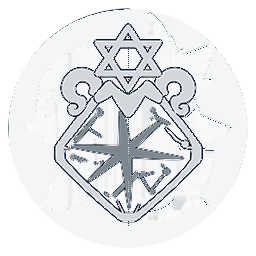
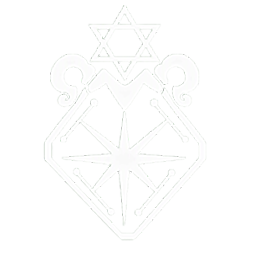
feat: 命座/详情技能图标素材更新 + 图案染色取消记录
- constellation.png 换源为用户 AI 生成版命座图标：中心闪光提亮修正、1024 降回 256，同日径向提亮翻车版废弃（guid 不变内容替换）
- detail.png 通用详情图标按亮度→alpha 管线重制：newA=oldA×L/255、RGB 恒白（与官方转白同款），深色细节透出底板色；guid 不变
- SKillIconView 注释记录：「图案染提亮元素色」方案 2026-09-10 晚试过被用户目检后取消，维持图案恒白+底板染元素色，勿再主动提案
- CODELY.md 当日记忆沉淀：官方素材拍板、识图 AI 降级、提亮禁动 alpha、技能图标体系与详情图标条目等

diff --git a/Assets/_Scripts/UI/Skill/SKillIconView.cs b/Assets/_Scripts/UI/Skill/SKillIconView.cs
@@ -40,7 +40,8 @@ namespace GIC.UI
             this.unitData = unitData;
             this.skillDetailView = skillDetailView;
 
-            // 元素染色（2026-09-10 拍板：图案保持白色不染，底图染亮元素色；色值=配置文件）
+            // 元素染色（2026-09-10 拍板：图案保持白色不染，底图染亮元素色；色值=配置文件。
+            // 2026-09-10 晚曾试"图案染提亮元素色"，用户目检后取消——勿再主动提案）
             // 底图为白基底圆板，乘色后即完整元素亮色；无 unitData 回退物理灰防白底白图
             Color elementColor = unitData != null
                 ? ElementFactionConfig.Instance.GetElementColor(unitData.selfElement)

diff --git a/CODELY.md b/CODELY.md
@@ -55,13 +55,15 @@
 - [2026-09-03 23:34:10] 【frontier 高成本确认门假报错】generate_image 用 provider=frontier/seedream_pro 等高成本模型**不带 confirm_cost=true 直接调用，返回 "[Error: Could not parse tool response]"**（2026-09-03 三次实证，同参加 confirm_cost=true 立即成功）——是高成本确认门响应解析失败的假象，不是网络/参数问题。**How to apply:** 用户已明确要求最强模型/同意成本时直接带 confirm_cost=true；再遇此报错先想成本确认门，勿无脑重试同参。
 - [2026-09-03 23:34:10] 【TJGenerators 轮询命令 Windows 必炸坑】generate_* 工具返回的 poll_command_powershell 内 `function Try` 与 PowerShell 保留字 try 冲突，原样执行必解析失败（2026-09-03 实证，改名 TryPoll 即正常）。**How to apply:** 把轮询命令下发给子代理执行前，将 Try 函数改名（如 TryPoll），逻辑照抄。
 - [2026-09-05 00:52:46] 【Prefab 实例引用编辑不持久化陷阱】（2026-09-05 背包页签迁移两次实证）：对场景中 prefab 实例的组件做 C# 赋值（sprite/color/GO 改名）+ SaveScene，部分修改未持久化（新增对象与字段覆写 selectDisc 持久化了，但 m_Sprite/m_Color/m_Name 赋值全部丢失）——疑与 Additive 加载后 prefab 资产先被 SaveAsPrefabAsset 重建的同步时序有关。**How to apply:** ①实例级修引用优先"内容替换法"：不动 override，直接换被引用文件的内容（guid/meta 不变，零风险）；②必须动实例 override 时走 YAML 手术：备份→删块→删 PI 修改项→校验（scene-local 无 guid 的 fileID 引用必须可解析到块；跨文件 fileID: 21300000/11500000/100100000 等子资产引用是合法的，勿计为悬空）→留 flag 自愈让 Unity 序列化器最终验证；③校验 dangling 时区分场景内引用与跨文件子资产引用，否则 700+ 误报。
-- [2026-09-05 22:02:54] Windows PowerShell 5.1 不支持 && / || 链式操作符（PS7 才有）——run_shell_command 组合命令用 `;` 分隔或拆开调用，报 "At line:1 char:17" 解析错即此坑（2026-09-05 实证 `git diff --stat && git diff` 失败）。**Why:** 与已记全局的 PS5.1 编码陷阱同源（本机 shell 为 PS5.1）。**How to apply:** 本机 shell 组合命令一律避免 &&/||；此条为项目域记录，若需跨项目生效可迁入全局 PS5.1 陷阱条目（迁全局需用户确认）。
+
 - [2026-09-05 22:26:03] 【"看似冗余"的执行路径可能是隐式行为的载体，删除前必查副作用】（2026-09-05 用户报障实证）：LoadSaveData 首建档分支"少 return、建档后又把刚写的档读一遍"被我判为"无害但浪费的 bug"顺手修掉——实际它承载了"建档后 fall-through 顺带 SyncMissingCards 补全未拥有卡"的功能；删掉后 v11 重置当次会话背包缺未拥有角色卡（count=0 条目全无），用户立即发现。**Why:** 旧代码的怪写法常是历史行为的载体，"重构清理"前必须先问"它为什么这么写"；行为保持型重构 ≠ 顺手修 bug。**How to apply:** ①判定既有代码"冗余/bug"并打算顺手移除时，先证明它不承载功能（调用面/数据流推演），证不了就保留原样或单独提问；②改存档建档/重置路径必须过 gic-save-system skill 的"建档即补全"铁律；③回归修复已入 CreateNewSave（SyncMissingCards+SortAllCategories）。
-- [2026-09-07 21:39:41] [feedback] 【PS5.1 中文弯引号也是字符串定界符】（2026-09-07 提交批两次实证）：PowerShell 解析器把 U+201C/U+201D（“ ”）当双引号定界符——含弯引号的中文文案放进 PS 双引号字符串必炸解析器（Unexpected token），\" 转义同样无效。**Why:** 与已记的 && / || 陷阱同源（PS tokenizer 特性）；git-commit-helper 的 -F 落盘铁律只防了 -m 直接传参，用 PS 字符串数组拼消息体再 WriteAllText 仍会踩。**How to apply:** 含引号/特殊符号的中文长文案一律 write_file 工具落盘（无 BOM UTF-8）再供 shell/git 消费，不经 PS 字符串字面量；文案内确需引号用「」；本条与 PS && / || 条目同属本机 PS5.1 陷阱族，跨项目生效可迁全局（迁入需用户确认）。
-- [2026-09-08 21:47:18] [feedback] 【exit_plan_mode 指定 plans 目录陷阱】（2026-09-08 五次实证）：exit_plan_mode 的 plan_file_path 只接受**会话级临时目录**（形如 C:\Users\86139\.codely-cli\tmp\<session-hash>\plans\<uuid>.md），传项目内自建路径（.codely-cli\plans、项目根 plans、.codely\plans、用户级 plans）一律报 "Access denied: plan path must be within the designated plans directory"；不带路径则报 "No active plan file is set for this session"——该 hash 目录事前无法预知，自建目录不生效。**Why:** plan 文件由会话基础设施管理，退出计划模式的批准动作最终由用户在 CLI 侧触发（本会话用户批准后系统消息回传了真实计划路径）。**How to apply:** 计划正文用 write_file 落到项目规范位置（如 .codely-cli/plans/）作长期档案即可，exit_plan_mode 直接调用不纠结报错；批准与否以用户回复/系统 Exited Plan Mode 消息为准；勿再逐个目录试错。此条属 Codely CLI 工具链陷阱，跨项目有效，迁全局需用户确认。
+
+
 - [2026-09-08 22:00:21] [feedback] 【技能描述只写特有内容，通用规则不重复】（2026-09-08 行秋契约简化批拍板）：技能描述里不重复系统级通用规则（契约流程/档位选择/谈判投票这类已在势力机制文档定义的），只写该技能特有的效果与数值；档位变化的数值写紧凑格式"10/15/20"（按平衡/小利/大利顺序），不写"（平衡10 / 小利15 / 大利20）"逐档标注。**Why:** 用户纠正我上一轮把契约流程与档位映射全塞进了雨深闭门描述——重复啰嗦。**How to apply:** 写任何势力机制技能（契约/延奏/变奏/连携）描述时先查 docs/07 对应势力文档，已定义的通用规则一律省略；规范已固化在 docs/07-势力机制/璃月.md"描述规范"条目。
-- [2026-09-09 21:18:33] [feedback] 【技能/角色图标素材一律取官方，AI 生成被否决】（2026-09-09 用户拍板原话"先不要自己生成技能图标，从网上比如米游社等找官方的，我现在有的技能图标都是取自官方的"）。**Why:** 项目现有图标全部取自官方素材，AI 生成风格即使模仿到位也会被否；本会话 24 张 frontier 生成图全废（未入库零污染，仅耗积分）。**How to apply:** 任何技能/角色图标需求先走官方抓取（实战可行链=Fandom api.php：parse&page=角色名&prop=images 拿官方图标文件名清单→titles=File:X&prop=imageinfo&iiprop=url 拿直链→curl 走 Clash 代理 7890 下载加 **&format=png** 参数——CDN 默认返回 webp，format=png 才是真 PNG）；AI 生成仅限官方无对应的项目自创技能且需用户点头。web_fetch 直接抓 fandom 页面必被反爬中止，api.php 不拦。
+- [2026-09-10 18:42:12] [feedback] 【技能/角色图标素材一律取官方，AI 生成被否决】（2026-09-09 用户拍板原话"先不要自己生成技能图标，从网上比如米游社等找官方的，我现在有的技能图标都是取自官方的"）。**Why:** 项目现有图标全部取自官方素材，AI 生成风格即使模仿到位也会被否；AI 批量生成曾 24 张全废（未入库零污染，仅耗积分）。**How to apply:** 任何技能/角色图标需求先走官方素材——2026-09-10 起一律本地游戏提取（gic-gi-extract skill，可逐张核对游戏内原画；Fandom 网络抓取链已弃用）；AI 生成仅限官方无对应的项目自创技能且需用户点头。
+
 - [2026-09-10 17:06:15] 【识图 AI 不可作为内容判定依据】（2026-09-10 用户拍板原话"不要相信识图的ai，经常不准确。我验证通过"）：多模态识图的形状/语义读数仅可作粗检参考，不得作为"图案是什么/箭头是否残留/内容对不对"类结论的证据；内容判定以像素级测量（连通域/diff/ASCII 渲染脚本）与用户目检为准，拿不准时列清单请用户回答。**Why:** fly 图标落地轮识图读数与像素测量+用户目检结论不一致，用户明确降级识图 AI 可信度。**How to apply:** 图标/贴图/素材内容核对一律先跑像素脚本、再交用户目检；识图结果与像素数据冲突时信像素，最终以用户目检为准。
+- [2026-09-10 19:25:39] 【图标提亮禁动 alpha 覆盖范围】（2026-09-10 命座图标提亮翻车实证，用户原话"回退，你不应该额外加像素，现在中间看起来糊成一坨"）：对线稿类图标做提亮/增亮时**只可提升既有实体像素的 RGB 亮度（且仅对 alpha 足够高的实体区），禁止把低 alpha/零 alpha 像素抬起来**——alpha 半提升会把抗锯齿边缘、极淡纹理、噪点一起实体化，视觉=糊成一坨。**Why:** 命座图标中心闪光原是低 alpha 的柔光区（ring 0-20 meanA 仅 122），我按 alpha+RGB 同推 0.9 权重提亮，把大量本近乎不可见的细节像素变实心，用户立即报糊。**How to apply:** ①提亮类操作先按 alpha 分层：alpha≥128 的实体区提 RGB；低 alpha 区不动或只微调；②"太暗"的图标若暗因=alpha 低，说明它本来就是柔光/半透明设计，改前先出对比图问用户要哪种方向；③改完先小样目检再全量落盘。
 
 ### Project
 - [2026-08-16 19:13:23] GIC"协议核心"：同时回合制卡牌战术战棋（原神IP，最多6人，LAN联机 via Mirror）。核心循环：祈愿解锁→局前选8卡→同时选1行动→攻速排序执行→摧毁核心掠夺→原石结算。7势力可混搭，命座0-3重复出战升命。**定位**：单人开发的个人 Demo/作品集，非商业上线；目标全平台互通（PC+移动+主机）。**Why:** solo dev 资源有限，scope 必须从 GDD 雄心大幅裁剪。**How to apply:** 实现战斗/势力/经济系统时参考 docs/；优先 2人1v1 而非 6 人、2-3 势力而非 7、垂直切片优先于铺量。
@@ -147,13 +149,15 @@
 
 
 
-- [2026-09-09 23:05:13] [project] 派蒙架构审查治理（2026-08-31）：报告+执行状态表在 .codely-cli/HANDOFF-派蒙审查.md；批 1-7 摘要见 docs/19 决策表 2026-08-31 行。方案B 工具家族拍板保留不删。剩余待拍板：游戏内阴影门控；大文件 partial 拆分未做（收益低）。DevKey 吊销议题已关闭（2026-09-07 定论：key 从未泄出无需吊销，见 DevKey 条目）。
+- [2026-09-10 18:41:39] [project] 派蒙架构审查治理（2026-08-31）：报告+执行状态表在 .codely-cli/HANDOFF-派蒙审查.md；批 1-7 摘要见 docs/19 决策表 2026-08-31 行。方案B 工具家族拍板保留不删。剩余待拍板：游戏内阴影门控；大文件 partial 拆分未做（收益低）。
+
 
 
 - [2026-09-01 21:04:05] [project] 米哈游级代码质量审查体系已建（2026-09-01 拍板"米哈游级代码质量+优秀架构设计"）：gic-code-review skill（.codely-cli/skills/gic-code-review/SKILL.md，七维 checklist：A架构依赖最高优先→序列化→UI本地化→数据存档→通用质量→文件位置→docs/14雷区对照）+ docs/20 §1.7 新文件位置决策表（编辑器/运行时→归属层判定+文件名=类名+一文件一类）。**Why:** 审查与项目规范此前脱节（通用 code-review skill 不带 GIC 铁律），用户要大厂标准。**How to apply:** "审查/review/检查代码/架构"类需求先激活 gic-code-review skill；大功能/阶段完成后主动建议跑审查；报告 Critical/Suggestion 必须带 docs/20 小节或 docs/14 编号出处，无出处意见标"通用经验"；审查只报告不代改（用户说修才改）。
 - [2026-09-02 22:31:39] [2026-09-02 22:23] [project] 弹窗素材体系拆分定案（2026-09-02）：轻提示=ToastDialog.prefab（bottom.png 原横条，Boot.unity 的 PopupManager.toastPrefab 已指向）；中弹窗=PopupDialog.prefab（模态消息）+InputPopupDialog.prefab（输入框），面板/按钮素材在 Assets/Resources/UI/Popup/。**Why:** 原先模态与 toast 共用一个 prefab（toastPrefab 为空时兜底 popupPrefab），直接换中弹窗素材会连带改 toast 外观。**How to apply:** 改弹窗/轻提示外观前先分清两 prefab；弹窗类素材生成与 9 切片落地走 gic-ui-9slice skill（内含现状索引）。
 
-- [2026-09-03 23:34:10] [2026-09-02 22:25] [project] 【.codelyignore 搜索陷阱】本项目 .codelyignore 屏蔽 Assets/**/*.png、*.prefab、*.asset、*.mat、*.wav 等——search_file_content/glob 在这些路径**静默零命中**（极易误判"无引用/文件不存在"），查 guid 引用/资产内容前一律 shell `rg --no-ignore`；read_file 直接读不受影响；analyze_multimedia 的 absolute_path 参数也走同一 ignore 校验（2026-09-03 实证：Assets 下 png 报 ignored by .codelyignore），分析 Assets 下图片先复制到 .codely-cli/tmp 再传。**How to apply:** 引用排查（素材 guid、prefab 反查）先想路径是否被 ignore，被 ignore 就走 rg；多模态分析被 ignore 的资产先复制出来。
+- [2026-09-10 18:43:37] [project] 【.codelyignore/.gitignore 搜索陷阱】search_file_content/glob/list_directory 的 ignore 层=.codelyignore**加**.gitignore 双层，被任一层命中即**静默零命中/无名**（极易误判"无引用/文件不存在/skill 不存在"）：.codelyignore 吞 Assets/**/*.png、*.prefab、*.asset、*.mat、*.wav 等+Assets/Mirror、kcp2k、TextMesh Pro、Plugins 整目录；.gitignore 吞 .codely-cli/、.codely/、Library/、Temp/、Logs/、UserSettings/、Export/、Maps/ 全部内容（include_hidden=true 也救不回——2026-09-10 实证：列 .codely-cli/skills 只回 "(21 ignored)"，险些误判 gic-gi-extract skill 不存在）。查 guid 引用/资产内容/目录清单/skill 文件前一律原生 shell `rg --no-ignore` / Get-ChildItem；read_file 直接读不受影响；analyze_multimedia 的 absolute_path 也走同一 ignore 校验（Assets 下图片先复制到 .codely-cli/tmp 再传）。**How to apply:** 引用排查（素材 guid、prefab 反查）、目录核验、skills 检索先想路径是否被任一层 ignore，中招就走原生 shell；多模态分析被 ignore 的资产先复制出来。
+
 
 - [2026-09-03 00:39:06] [project] UI 素材分辨率基准（2026-09-03 普查实证，186 PNG）：全项目按钮素材 500~512px 一档（MainHall 导航钮 512×512×10、back/normal_button 500×135、弹窗钮 500×103）；Canvas 参考分辨率 2560×1440（仅 PaimonPet 960×540）；medium_popup 511×512 对显示 ~900×500 属偏低档。纹理 raw 预算大头：Art/Wish 470MB（8 张 4096px）、Art/PositionBack 172MB（3200px）、UI/Cards 107MB（30 张 800×1200）；弹窗族 4 张仅 2.1MB 占 0.2%。**How to apply:** 弹窗/按钮素材保持 500~512 一档即可，勿超标也勿低于显示尺寸；内存优化议题优先看 Wish/PositionBack/Cards，不是弹窗族。
 - [2026-09-05 00:18:44] 【背包页签图标接线映射（2026-09-03 解析铁证；2026-09-04 原神截图复刻；2026-09-05 对齐原神分层架构）】8 页签→文件族映射不变（角色0→unit_button/造物1→creation/建筑2→building/装备3→equipment/消耗品4→normal/材料5→valuable/货币6→currency/任务7→quest），场景 GameObject 名错位陷阱与加密 meta 陷阱不变。**现行架构（原神式）**：每页签 1 张白 glyph（TabGlyphs/glyph_1..9.png，g2 纹章备用）+ 公共圆盘 disc.png；NormalIcon=glyph×灰蓝(0.647,0.627,0.616)，SelectIcon 已拆为 SelectDisc(盘×米白(0.914,0.886,0.839))+SelectGlyph(glyph×深蓝灰(0.353,0.384,0.447)) 两层，ItemCategoryView 新增 selectDisc/selectGlyph 字段（PopLayers 同步缩放动画）；旧 16 张两图制 PNG 无人引用但保留备回滚。**Why:** 用户要求对齐原神"单 glyph+公共盘+运行时染色"架构。**How to apply:** 换图标=换 glyph PNG 或调三色 Image.color，勿再烘焙颜色进图；迁移/批改场景用 TabGlyphMigrationTool（MenuItem Tools/TG/背包页签图标重构迁移，幂等），无 execute_custom_tool 时用"flag 文件+InitializeOnLoad 自愈"协议：写 .codely-cli/tmp/TabGlyphMigration.run.flag → 编辑器下次刷新自动执行并写 result.txt（用户全屏应用时 SetForegroundWindow 偷不到焦点，refresh 不触发，flag 会留到下次刷新自愈）。
@@ -168,34 +172,32 @@
 
 
 - [2026-09-07 20:16:26] [project] 纠缠之线表现 v2（2026-09-07 拍板"叠加不改"，取代 9/6 粉色替换版）：相遇揭示表现（金色抖动发光/星级色光柱/边缘泛光）对纠缠**完全保留**，差异化只做叠加——瞄准期（12 秒）圆环风暴（画面中心出生→easeOut 迅速放大 140→2200px+顺/逆时针自旋 240°/s±30%，生成间隔 0.55→0.12s 在 3 秒爬到峰值后保持，开火停发自然淡出；RingStormCoroutine 单协程仿星辉雨模式）+ 瞄准暗幕（背景图 back.png 偏亮，Additive 环需压暗底，VeilAlpha 0.5 可关）+ 倒计时染粉/进度条线色呼吸（保留）；开火双线光矢/全屏粉闪、氛围粒子粉色脉冲（保留）；**v1 粉色发光/抖动倍率/粉色光柱/升级冲击环已全部回退**（StarVisualConfig 三字段已删、SO 孤儿键已清）。素材=Resources/UI/Wish/intertwined_ring_0/1.jpg（AI 生成参考 back.png 科幻装置风格，黑底+Additive 自动隐形；ring_1 左上角杂点已对称裁边 250px 修复）。细节 docs/12 §6.7。**音效拍板=默认不做**：shootSFX/cardHitSFX 场景未赋值，全祈愿射击/命中无声是已知缺口非 bug，勿误判修"没声音"；要做时 generate_sound_effect 生成射击/命中/纠缠变体三条+场景接线+响度自检。
-- [2026-09-07 21:39:41] [project] 纠缠射击派蒙瞄准反应（2026-09-07 拍板+用户验证通过，d2bc1d6 已提交）：新增 WishDrawController.OnIntertwinedAimStart 瞄准首帧事件（参数=1-based 发数；**故意延一帧经 InputCoroutine 发**——AutoRunner/PlayerObserver 都在 StartWish 返回后才挂订阅，同步发会漏第一发）；派蒙代抽/玩家手抽两路径同款 Domagic 动作+话语（描述主语框架"你/旅行者拿出纠缠之缘"区分+IsAutoDraw 防串场照旧）；AI 自动抽卡在 12 秒纠缠仪式上多等 4 秒（intertwinedAutoExtraWaitSec，随机点击窗口 0.4~1.35s→4.4~5.35s）；UIText 新键 PetWishIntertwinedAim(9063)/PetWishPlayerIntertwinedAim(9064) 五语言、CSV 已同步重导出。**How to apply:** 派蒙祈愿新反应类型按 PetWishAutoRunner 反应规则表扩展（docs/19 §6.5）；文案改值走 gic-localization 直改表/CSV 流程。
+- [2026-09-10 18:42:21] [project] 纠缠射击派蒙瞄准反应已落地（2026-09-07 用户验证通过；规则表与事件清单在 docs/19 §6.5，AI 等待+4s 等数值均已入 docs/代码）。**复用陷阱**：WishDrawController 祈愿期事件要给 AutoRunner/PlayerObserver 消费时必须延一帧经 InputCoroutine 发——两者都在 StartWish 返回后才挂订阅，同步发会漏第一发（OnIntertwinedAimStart 实证）。**How to apply:** 派蒙祈愿新反应类型按 PetWishAutoRunner 反应规则表扩展（docs/19 §6.5）；文案键改值走 gic-localization 直改表/CSV 流程。
+
 - [2026-09-07 22:55:35] [project] DevKey 已于 2026-09-07 首推前清洗出 git 历史（filter-branch index-filter）：2026-08-30（36605fe）及之后的提交 SHA 全部重写，8/30 前的 SHA 不变——docs/skill 里引用的 8/30 之后的旧 SHA（如 1129959）已失效，git show 失败时按提交信息 grep 重定位。PetApiKeyCrypto.DevKey 同日改本地文件制：项目根 devkey.txt（gitignored，本机已就位）→ GIC_DEVKEY 环境变量 → 空；key 从未泄出，无需供应商吊销。**How to apply:** 删档测试后聊天 key 为空先查项目根 devkey.txt 在不在；勿以任何明文形式把 key 写回代码或提交。
-- [2026-09-09 23:05:57] [project] 派蒙对话人设 v2.2+字体 tofu 根治（2026-09-08 收口）：人设构成（身份锚定"派蒙本人非AI"+说话规则+欸嘿降频 v2.2）、口癖调频、tofu 排查、构建验证全流程已沉淀 gic-pet-chat skill；人设构成 docs/19 §6.5.1、字体史 docs/14 §30，勿在记忆重复。关键事实：①项目字体全量统一 zh-cn SDF（原神提取款，用户拍板；InputPopupDialog/CoopScreen 已切）；zh-cn SDF.asset 已 git add -f 首次入库（64.7MB，.gitignore 吞 TextMesh Pro 目录坑复发）。②tofu 根因=zh-cn SDF 多图集关+单张 4096² 烘焙 1569 字已满，Dynamic 补字必败——诊断铁律：TMP_FontAsset.HasCharacter=烘焙字形表、Font.HasCharacter=字体文件 cmap，两层勿混；Dynamic 字体资产建时必开多图集。
+
 
 - [2026-09-08 19:17:30] [project] 三势力机制+商业化分析定盘（2026-09-08 会话，高级策划视角产出，仅存对话未落 docs）：**商业化结论=带原神IP形态可行性为零**（角色名/术语/7元素18反应命名/GI解包字体+RigMesh+MMD模型+OST 全侵权面，无"安全商业化"路径；去IP后机制本体——同时回合+攻速错峰+契约谈判+命座——原创可独立成立，fork 换皮留作核心循环验证后的选项，勿现在做）；三条纪律=全渠道不收费（打赏与项目解绑）/启动页加"非官方同人，与miHoYo无关"免责声明/解包资产永不入发布渠道。**三势力定位**：璃月契约=拉新钩+观赏性之王（对人谈判品类独一份，1v1 切片只能展示三成潜力）、稻妻连携=留存引擎（操作爽，但延迟敏感是全平台互通最弱一环）、蒙德延奏=门槛垫底石（机制最成熟、与攻速管线咬合最漂亮，但存在感靠变奏可视化——B5 表现层建议把"三势力视听签名"列验收）；纯/混骨架成立（元能/摩拉/勾玉三资源轴不互抢，延奏给非蒙德20元能=显式混搭激励，变奏深度=纯色激励）。**待拍板/缺口清单**：璃月"任意1契约解除→全部解除"连坐规则意图、勾玉归属（玩家级/角色级）、连携在攻速管线中的插入次序、契约对1-2星AI单位与尸体的规则、稻妻触发条件表+衍生玩法（docs/08 稻妻条目缺位）、时停×连携窗×攻速延迟三种时间侵入叠加优先级、6人局契约次数限流、蒙德-only切片验不了混搭验收目标（B8前补行秋+1璃月最小集或该验收改期C批次）。**Why:** B批次开工与C批次排期的前置输入，商业化问题一次论证定盘避免反复。**How to apply:** 做璃月/稻妻落地或补 spec 前先按此清单核对；商业化/上架/收费类问题直接引用结论勿重新论证。
-- [2026-09-08 22:41:08] [project] 契约机制三连拍板+行秋转正（2026-09-08 晚收口，规则本体全在 docs/07-势力机制/璃月.md 与 docs/units/璃月/行秋.md，勿在记忆重复）：①档位同时影响补偿与拒签惩罚（行秋 10/15/20 / 30/45/60，档位=施法者选择"要哪个分支"的旋钮）；②拒签扣元能不足→不足部分按50%换算为摩拉由主契者掠夺（"钳0 vs 负债"之外的第三条路，拒签永远有痛感）；③谈判改票权投票制——主契者/被契者各3票、双方队友2票、已淘汰+非这两个队玩家1票，只可投同意/拒绝、加利仅被契者可点、决定权在哪一方该方+第三方投票（另一方本轮不投）、平票判拒签；1v1 自动退化为原单人决定，切片兼容。**新增待拍板四项**：被契者摩拉不足时掠夺是否钳0；"不足掠夺"是否从行秋条目通用化进璃月.md；6人混战第三方4票>被契者3票可强签——有意保留还是给本人否决权；投票票数实时显示与否。**行秋已全链路转正**（4001，首个璃月角色：正式文档/枚举/UnitConfig/五语言本地化/CSV，草稿已清）；**转正遗留两项未落**：2命"溢出雨帘剑攻击"伤害值未定义（建议=协同伤害40%攻击力，落 Buff 系统时拍板）；技能图标4张未生成（amphibious/rain_screen/feiyun_commerce/raindeep_gate，config icon 空，命座复用 constellation.png）。Buff:雨帘剑 的 RelatedName/RelatedDescription 条目已建（2026-09-08 描述优化批五语言）。**How to apply:** 璃月/契约后续设计以 docs/07 现版为准勿凭本条；做 B 批次 Buff 系统时一并补 2命伤害；用户提生成行秋图标时按上述四名字产出；AddKey 自动大数 Id 陷阱已入 gic-localization skill 勿再踩。
+- [2026-09-10 18:42:18] [project] 契约机制三拍板+行秋转正（2026-09-08 收口，已落地）：三拍板=①档位同时影响补偿与拒签惩罚②拒签元能不足→不足部分按50%折算摩拉由主契者掠夺③谈判投票制（平票判拒签，1v1 自动退化单人决定，切片兼容）——**规则本体全在 docs/07-势力机制/璃月.md（投票票数表/规则/流程）与 docs/units/璃月/行秋.md，以 docs 现版为准勿凭本条**。**待拍板四项**：被契者摩拉不足时掠夺是否钳0；"不足掠夺"是否从行秋条目通用化进璃月.md；6人混战第三方4票>被契者3票可强签——有意保留还是给本人否决权；投票票数实时显示与否。**转正遗留两项**：行秋2命"溢出雨帘剑攻击"伤害值未定义（建议=协同伤害40%攻击力，落 Buff 系统时拍板）；技能图标4张未落（amphibious/rain_screen/feiyun_commerce/raindeep_gate，命座复用 constellation.png）。**How to apply:** 璃月/契约后续设计以 docs/07 为准；做 B 批次 Buff 系统时一并补 2命伤害；行秋图标按官方提取流程产出。
 
 
 
 
-- [2026-09-09 23:05:51] [project] 百分比架构优化落地（2026-09-09）：评估结论=参数数据模型（typed key+baseType）已商业级、优于原神位置参数数组。①SkillBaseType.Percent=11 新增（上下文百分比：值=50 渲染"50%"，基数由技能语境提供）；②六参数 Fixed→Percent 转正（MoveSpeedReduction/PlunderRate/C1ShieldToEnergyRate/C1HealEfficiency/C1LifeSteal/C3DamageBonus）——顺带修掉"治疗效率提升50"缺%的显示歧义；③修实锤本地化缺陷：SkillDescriptionBuilder 基底名原硬编码中文（"攻击力"直注入所有语言描述），改走 StringDatabase.GetTable 当前语言读取；④描述模板去手动 %（Percent 渲染自带）。陷阱已沉淀 gic-localization skill"本引擎实测陷阱"节（表 Id 禁 0/RemapId 单向/StringTable.Values/无 m_Tables+Addressables 注册机制/组名精确匹配/SetDirty 协议），勿在记忆重复。SkillBaseType 表 ru 缺口已由 2026-09-09 晚 ru 完整性修复条目收口（AddNewTable 官方路径）。**How to apply:** 新增百分比型技能参数一律用 Percent 基底；描述模板只写占位符不写 %；战斗系统 B 批次读 Percent 型按 rate×语境量结算。
+
+- [2026-09-10 18:42:29] [project] 技能参数模型定盘（2026-09-09）：typed key+baseType 模型评估为商业级、优于原神位置参数数组——**勿重造模型**。SkillBaseType.Percent=11=上下文百分比（值=50 渲染"50%"，基数由技能语境提供）；SkillBaseType 基底名走 StringDatabase.GetTable 按当前语言读（勿硬编码中文基底名）；描述模板只写占位符不写 %（Percent 渲染自带）。工具陷阱已沉淀 gic-localization skill"本引擎实测陷阱"节，勿在记忆重复。**How to apply:** 新增百分比型技能参数一律用 Percent 基底；战斗系统 B 批次读 Percent 型按 rate×语境量结算。
+
 
 - [2026-09-09 01:32:00] [2026-09-09] 卡牌显示体系两批落地（计划档案=.codely-cli/plans/卡牌圆角自动裁剪-计划.md）：①圆角遮罩：Card.prefab（**全项目唯一卡牌形态**——背包两池/卡组面板/DeckSwitchPanel 预览/祈愿轨迹与结果卡全由它实例化，改一处全局生效）Content 下新增 CardMask 节点（Image(sprite=UI/Cards/card_back.png, raycastTarget=false)+Mask(showMaskGraphic=false)，铺满），ItemImage/UnitImage/CountImage/OnDeck/Overlay 五子入遮罩，Select 移 Content 直属（超边选中框不裁）；特效（GlowImage/光带/泛光）挂根在遮罩外。**新立绘素材工作流：直接放方角原图，勿再 PS 裁圆角**；现有 30 张已裁立绘后续换方角消除双圆角边缘细缝。②兹白测试皮肤 zibai_skin_solid.png（纯蓝 #0080FF 方角 800×1200，UnitConfig 兹白 cards[1]，用户拍板不删，勿当 bug 修/勿清理）。③未拥有角色卡（count<1）新规则：初始态显示半透明遮罩但无获取文本、仍可点击开详情（raycast 冒泡到根 Toggle，天然不挡）；编辑模式遮罩+文本（现状保留）；Card.ExitEditDeck 语义改为委托 strategy 恢复初始态（Base 默认全关=物品卡现状），SetOverlayState(card,mask,text) 统一收口、**两策略 InitCardDisplay 必须全量声明 overlay 态（池化混用教训：背包 CardPool 同批实例跨 Unit/Item 复用，单侧不声明=残留遮罩，2026-09-09 页签切换残留实证已修）**；物品卡编辑模式遮罩不带文本（修占位文本遗留）。**待拍板：物品卡要不要同款初始遮罩（用户原话只点名角色卡）**。**How to apply:** 改卡牌外观/加皮肤/动 Overlay 结构前先读本条与计划档案；新立绘方角入图。
-- [2026-09-10 00:51:22] [project] 技能图标落地状态（2026-09-09 官方抓取批）：18 张官方图标已接线 UnitConfig（空 icon 58→40）——凯亚4/芭芭拉3/丽莎3/琴3/诺艾尔4/行秋1，入库 Assets/Resources/UI/Skills/ 按技能名小写下划线命名；6 处命座槽统一接 constellation.png；剩余 40=25 占位角色数字技能（等转正）+Common_Walk×8（已接现成 walk.png，256 官方同风格）+Common_Amphibious×1+**6 张待定官方对应**（芭芭拉心意注入≈官方 A1"全心全意♪With My Whole Heart"或 C6、琴引领之风≈官方 A4"和风 Guiding Breeze"、琴顺风而行官方无、丽莎蔷薇标记≈官方 A1"导雷 Induced Aftershock"（效果=挂雷标记）、行秋飞云商会+雨深闭门官方无=自创）——映射需用户拍板；通用 Walk/Amphibious 官方无对应。官方技能名与项目名对照要点：芭芭拉水之浅唱=普攻（图标=Catalyst_Hydro 元素图）、琴西风吹拂之时=官方 C4 命座名（When the West Wind Arises）、诺艾尔护心铠=E 护心铠 Breastplate、冷血之剑官方英文=Cold-Blooded Strike。**2026-09-10 拍板：本条记录的 Fandom 抓取工作流已弃用**——官方素材一律走本地游戏提取（skill gic-gi-extract，可逐张核对游戏内原画）。
-
-
-- [2026-09-09 22:08:52] [project] ru 语言完整性修复（2026-09-09 晚）：①SkillBaseType_ru 上轮手动补建漏 col.AddTable 登记→col.Tables 永久 4 表且编辑器重启不自愈（表清单持久化在 Assets/Localization/{表名}.asset 表集合资产，非 SharedData），AddTable+反射 SaveChangesToDisk 修复落盘；②体检新发现 ItemName/ItemTag/SkillType 三表也缺 ru→官方 col.AddNewTable(new LocaleIdentifier("ru"), path) 一条龙补建（自动建资产+登记+Addressables 注册落盘）+45 条俄语翻译（官方译名网检实锤：纠缠之缘=Переплетающиеся судьбы/相遇之缘=Судьбоносные встречи/星辉=Блуждающий звёздный блеск/原粹树脂=Изначальная смола）；③四张 CSV 重导收 5 列，21 集合表体检 20 个 5 语言全 OK（UIAssets 无集合待查）；④机制实证已沉淀 gic-localization skill 陷阱 3 全量重写+docs/14 §31（fake-null 反射判空陷阱：icon fileID:0 用 GetValue(s)==null 判不出，必须 as Sprite 后再判）。**机制术语俄译已复核（2026-09-09 用户拍板）**：连携非音乐术语→已改表值 Координация+CSV 重导；延奏=Фермата/变奏=Вариация 维持（音乐系命名，用户未否）。**Why:** ru 玩家物品名/技能类型/物品标签此前无值。**How to apply:** 补建语言表一律用 AddNewTable 官方路径，勿手动 CreateInstance。
-- [2026-09-10 17:06:15] [project] 技能图标体系（2026-09-10 全链落地）：**图标=裸图案（透明底白线稿），底板由 Skill.prefab Badge 层渲染**（badge.png=纯白基底 r=120 圆，乘元素色即完整亮色）；元素染色=图案恒白+底图染 GetElementColor，色值只存 ElementFactionConfig.asset。**通用图标定名**：武器类 claymore_skill/sword_skill/polearm_skill/gauntlet_skill/catalyst_skill/bow + 移动类 walk（=Chevreuse_07）/teleport（=Chasca_03）/fly（2026-09-10 换源=UI_Talent_S_Liuyun_07 闲云固有天赋 Crane Form 全队滑翔速度+15%，用户 AI 处理移除右下角提升双箭头，1024 透明底高质量降回 256 落地，【目检】用户验证通过）/constellation（旧烘焙图 V4 参照底板法抠出，底板区 A8-13、图案 A255 实证完好）；安柏变奏 reveal=Mika_05。**素材库三库**（webrefs/genshin-unpack/extracted/，全 256 零坏图）：all_skills_256(547)+all_talents_256(868)+all_monsterskills_256(235)，132 内名速查表在 all_skills_256/README。已接线：安柏六技能全迁移完。**两条新实证陷阱**：①透明底白线稿 PNG 做单图多模态分析会被"白底渲染"骗报"图案丢失"（验证须垫深色/棋盘格合成图，或以像素采样为准）；②**shell 后台改 Assets 下的 PNG 后 Unity 不会自动感知，必须 AssetDatabase.ImportAsset 强制重导入**（用户在游戏里看到"透明度未生效"实为旧缓存，2026-09-10 fly/constellation 白追一轮根因）；③抠底板勿猜阈值——badge_candidate2 参照图逐像素距离法一步到位（K=45）。超分=Upscayl digital-art-4x；Fandom 弃用。旧坑：内名不规律、alpha×0.8 需×255/204、UI_Talent_U=E/Q 镜像冗余、GDI+ FromFile 锁源+Save 同路径必炸（内存副本→临时路径→Move）、无 BOM UTF-8 .ps1 被 PS5.1 按 GBK 解析。
 
 
 
+- [2026-09-10 18:42:25] [project] ru 语言表已补齐（2026-09-09：SkillBaseType/ItemName/ItemTag/SkillType 四表 5 语言全通，CSV 已重导；机制陷阱沉淀在 gic-localization skill 陷阱3+docs/14 §31，勿在记忆重复）。**拍板**：机制术语俄译复核——连携非音乐术语→已改表值 Координация；延奏=Фермата/变奏=Вариация 维持音乐系命名。**遗留待查**：UIAssets 无集合表待查。**How to apply:** 补建语言表一律用 AddNewTable 官方路径，勿手动 CreateInstance。
+
+- [2026-09-10 21:43:44] [project] 技能图标体系（2026-09-10 全链落地）：**图标=裸图案（透明底白线稿），底板由 Skill.prefab Badge 层渲染**（badge.png=纯白基底 r=120 圆，乘元素色即完整亮色）；元素染色=图案恒白+底板染 GetElementColor，色值只存 ElementFactionConfig.asset（2026-09-10 晚“图案染提亮元素色”方案试过被用户目检后取消，勿再主动提案）；入库 Assets/Resources/UI/Skills/ 按技能名小写下划线命名。**通用图标定名**：武器类 claymore_skill/sword_skill/polearm_skill/gauntlet_skill/catalyst_skill/bow + 移动类 walk（=Chevreuse_07）/teleport（=Chasca_03）/fly（=UI_Talent_S_Liuyun_07 闲云滑翔天赋，AI 去除右下角提升双箭头，1024 降回 256，用户目检通过）/constellation（2026-09-10 晚换源=用户 AI 生成版：中心闪光提亮修正，1024 降回 256 落地，同日早先径向提亮翻车已回退——教训：禁动 alpha）；安柏变奏 reveal=Mika_05。**素材库**（webrefs/genshin-unpack/extracted/，全 256 零坏图）：all_skills_256(547)+all_talents_256(868)+all_monsterskills_256(235)，132 内名速查表在 all_skills_256/README。**Fandom 抓取工作流已弃用（2026-09-10 拍板）**：官方素材一律走本地游戏提取（gic-gi-extract skill，可逐张核对游戏内原画）。**接线现状**：安柏六技能全迁移完（新体系首个角色）；前批（2026-09-09）18 张官方图标已接线仍有效（凯亚4/芭芭拉3/丽莎3/琴3/诺艾尔4/行秋1）；6 处命座槽统一接 constellation.png；Common_Walk×8 已接 walk.png。**待拍板映射 6 张**：芭芭拉心意注入≈官方A1"全心全意♪"或C6、琴引领之风≈官方A4"和风"、琴顺风而行官方无、丽莎蔷薇标记≈官方A1"导雷"（效果=挂雷标记）、行秋飞云商会+雨深闭门官方无=自创（AI 生成需用户点头）；通用 Amphibious 官方无对应；另有 25 张占位角色数字技能等转正后落图标。**官方名对照**：芭芭拉水之浅唱=普攻（图标=Catalyst_Hydro）、琴西风吹拂之时=官方C4、诺艾尔护心铠=E Breastplate、凯亚冷血之剑=官方 Cold-Blooded Strike。**三条实证陷阱**：①透明底白线稿 PNG 做单图多模态分析会被"白底渲染"骗报"图案丢失"（验证须垫深色/棋盘格合成图，或以像素采样为准）；②**shell 后台改 Assets 下的 PNG 后 Unity 不会自动感知，必须 AssetDatabase.ImportAsset 强制重导入**（"透明度未生效"实为旧缓存）；③抠底板勿猜阈值——badge_candidate2 参照图逐像素距离法一步到位（K=45）。超分=Upscayl digital-art-4x。旧坑：内名不规律、alpha×0.8 需×255/204、UI_Talent_U=E/Q 镜像冗余、GDI+ FromFile 锁源+Save 同路径必炸（内存副本→临时路径→Move）。
 
 
 
-
-
-
-
+- [2026-09-10 19:26:54] [2026-09-10 19:35] [project] 通用详情技能图标 detail.png 已替换落地（2026-09-10）：源=用户提供的 AI 分层图（tuanjie TOS URL），按**亮度→alpha 管线**处理（newA=oldA×L/255、RGB 恒白——与 amber/teleport 官方转白同款；近白主体落 alpha≈222、深色细节落低 alpha 显底板色），256×256、内容 174×234 居中（与旧 detail 同 234 高覆盖）、guid b1e72193… 不变（内容替换法）、Icons.spriteatlas 文件夹打包自动流入、走 ImportAsset 强制重导入。**"详情"技能本身未建**：SkillName 枚举无条目、UnitConfig 零引用——未来接线时直接用 Assets/Resources/UI/Skills/detail.png 勿再处理。旧图备份 .codely-cli/tmp/detail_old_backup.png、源图 detail_raw.png、三元素底板预览 detail_preview.png。
 
 ### Reference
 - [2026-09-05 20:04:54] MC mod gichess（旧项目，Java/NeoForge）：源码 D:\Game\mod\wg-template-1.21.4\src\main\java\com\wg\gichess\（308文件），jar D:\Tuanjie_editor\gic\.codely-cli\webrefs\genshin-unpack\gichess\my\wg-0.2.d（2026-09-05 随 gichess 77.78GB GI 解包归档整体迁入 webrefs/genshin-unpack/，原 D:\Picture\gichess）。~20+角色，7元素18反应，蒙德延奏/纳塔夜魂已实现。**Why:** GIC 战斗系统 Unity 移植的架构参考。**How to apply:** 需要查旧 Java 实现时按路径阅读源码。
